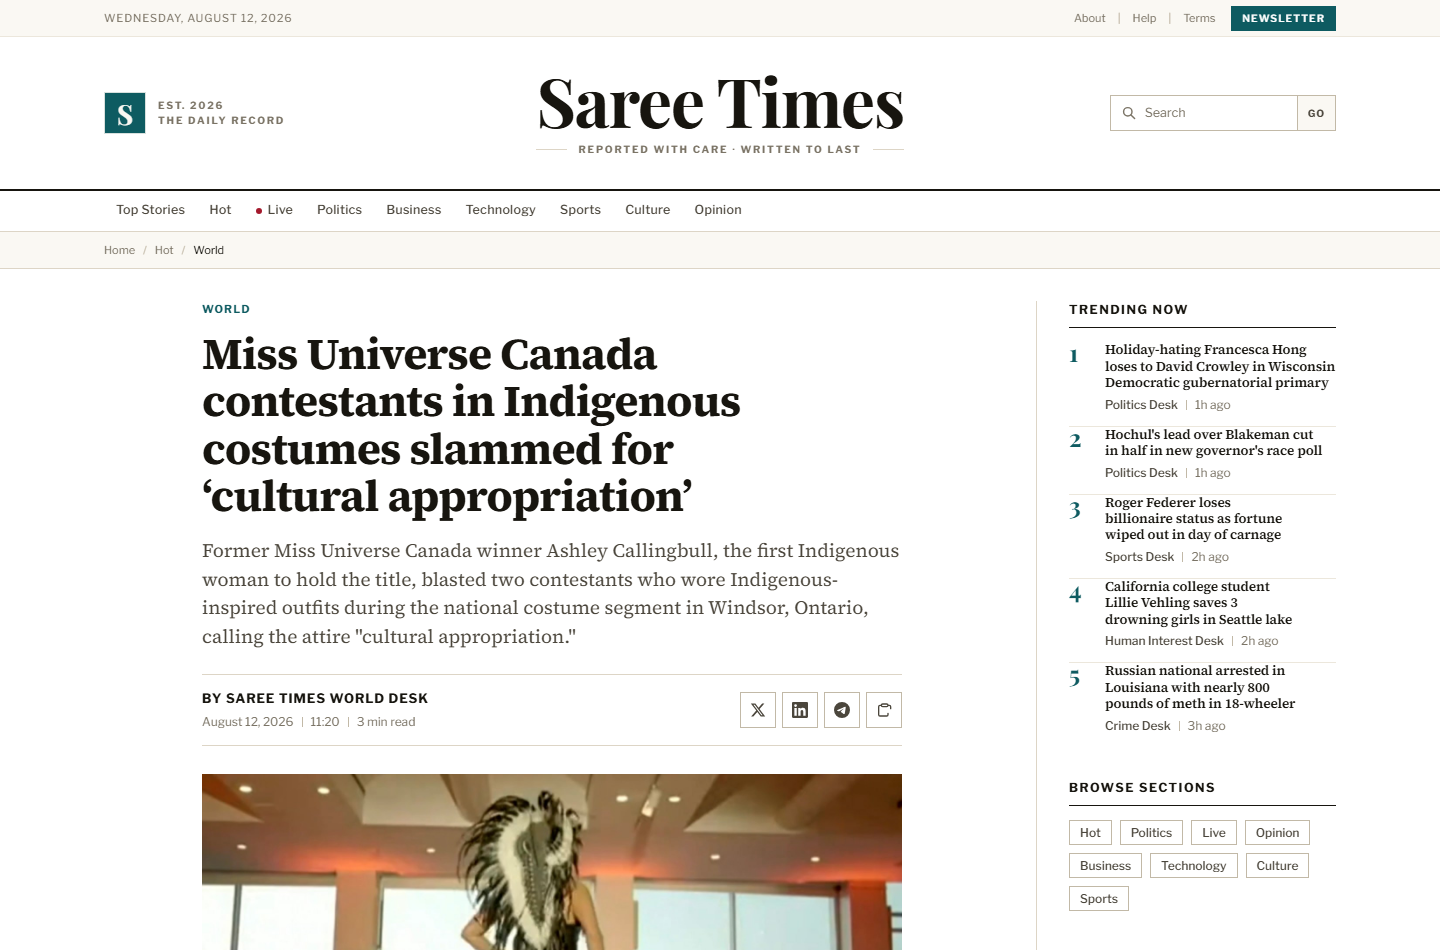
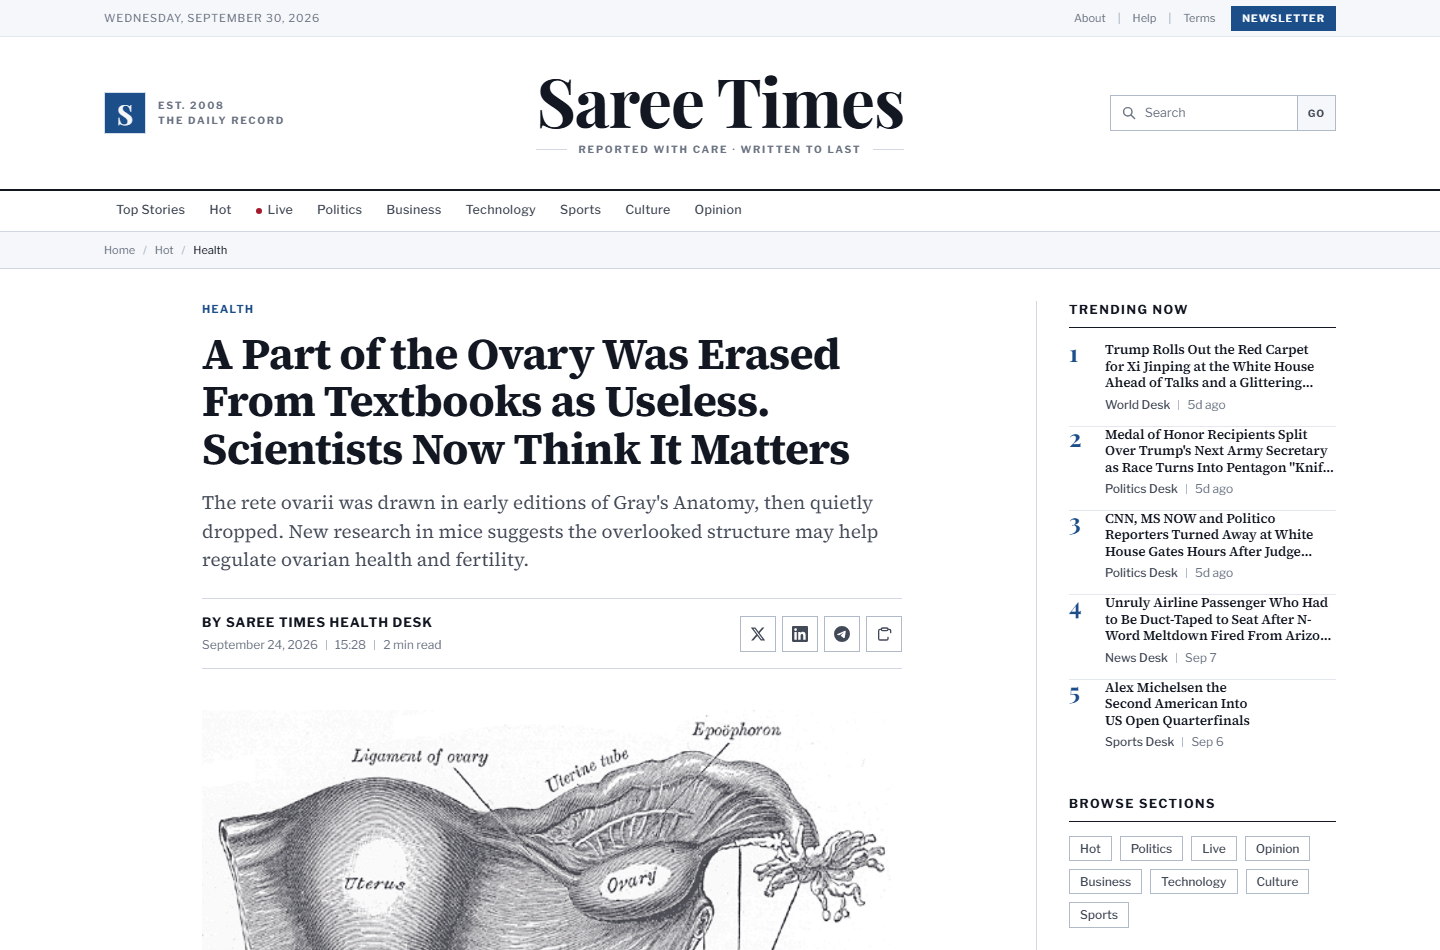
asd

diff --git a/src/app/globals.css b/src/app/globals.css
@@ -5,25 +5,25 @@
 :root {
   color-scheme: light;
 
-  --foreground-rgb: 23, 21, 15;
+  --foreground-rgb: 18, 23, 34;
 
   /* ============================================================
-     Saree Times — warm broadsheet palette.
-     Ink on cream paper, one deep-teal house accent, crimson kept
-     in reserve for live and breaking furniture only.
+     Saree Times — cool broadsheet palette.
+     Ink on blue-grey paper, one deep-cobalt house accent, crimson
+     kept in reserve for live and breaking furniture only.
      ============================================================ */
 
   --bg-base: #ffffff;
   --bg-primary: #ffffff;
-  --bg-secondary: #ebe6dc;
-  --bg-surface: #faf8f3;
-  --bg-surface-2: #f2ede3;
-  --bg-elevated: #fdfcf9;
+  --bg-secondary: #e5e9f0;
+  --bg-surface: #f5f7fa;
+  --bg-surface-2: #edf0f5;
+  --bg-elevated: #fbfcfd;
 
-  --border-subtle: #ece7dc;
-  --border-soft: #ddd5c6;
-  --border-strong: #c2b9a7;
-  --border-glow: #8a8271;
+  --border-subtle: #e3e7ee;
+  --border-soft: #d2d8e1;
+  --border-strong: #b1bac8;
+  --border-glow: #7b8596;
 
   /* Print furniture is square; nothing in this design is rounded. */
   --r-ticket-a: 0;
@@ -31,14 +31,14 @@
   --r-card-a: 0;
   --r-card-b: 0;
 
-  --text-primary: #17150f;
-  --text-secondary: #4b463c;
-  --text-muted: #7b7466;
+  --text-primary: #121722;
+  --text-secondary: #434a57;
+  --text-muted: #6d7584;
 
-  --accent: #0e5b61;
-  --accent-hover: #093f44;
-  --accent-subtle: #e9f2f2;
-  --accent-border: #b4ced0;
+  --accent: #1c4e8a;
+  --accent-hover: #133865;
+  --accent-subtle: #ebf1f9;
+  --accent-border: #b8cae3;
   --accent-glow: transparent;
 
   --brand-blue: var(--accent);
@@ -49,8 +49,8 @@
   --brand-green: #1f6b45;
   --live: #a4192c;
 
-  --rule: #17150f;
-  --ink: #17150f;
+  --rule: #121722;
+  --ink: #121722;
 
   /* Font stacks are wired to next/font variables set on <html>. */
   --font-sans: var(--font-ui), 'Helvetica Neue', Arial, Helvetica, sans-serif;
@@ -419,7 +419,7 @@ a:hover .headline {
 .article-content p {
   margin-bottom: 1.35rem;
   line-height: 1.68;
-  color: #23211b;
+  color: #1f2430;
   font-size: 1.1875rem;
   letter-spacing: -0.003em;
 }
@@ -462,7 +462,7 @@ a:hover .headline {
   margin: 0 0 1.35rem 1.4rem;
   font-size: 1.1875rem;
   line-height: 1.68;
-  color: #23211b;
+  color: #1f2430;
 }
 
 .article-content ul { list-style: disc; }
@@ -611,8 +611,8 @@ a:hover .headline {
 .scrollbar-hide { scrollbar-width: none; }
 
 ::selection {
-  background: #cfe6e6;
-  color: #17150f;
+  background: #d3e1f3;
+  color: #121722;
 }
 
 a:focus-visible,

diff --git a/src/components/Logo.tsx b/src/components/Logo.tsx
@@ -3,7 +3,7 @@ import { SITE_NAME } from '@/lib/brand'
 /**
  * The square monogram tile. Deliberately rebuilt in CSS rather than loaded as
  * an image so it matches `public/logo.svg` exactly while costing no request —
- * both are a Playfair Display bold "S" in cream on the house teal.
+ * both are a Playfair Display bold "S" in mist on the house cobalt.
  */
 export function BrandMark({
   size = 40,
@@ -20,7 +20,7 @@ export function BrandMark({
         width: size,
         height: size,
         fontSize: size * 0.66,
-        boxShadow: `inset 0 0 0 ${Math.max(1, Math.round(size * 0.028))}px rgba(250, 248, 243, 0.85)`,
+        boxShadow: `inset 0 0 0 ${Math.max(1, Math.round(size * 0.028))}px rgba(245, 247, 250, 0.85)`,
       }}
     >
       <span style={{ transform: `translateY(${size * 0.03}px)` }}>S</span>

diff --git a/tailwind.config.ts b/tailwind.config.ts
@@ -10,14 +10,14 @@ const config: Config = {
     extend: {
       colors: {
         saree: {
-          ink: '#17150f',
-          rule: '#17150f',
-          teal: '#0e5b61',
-          'teal-dark': '#093f44',
+          ink: '#121722',
+          rule: '#121722',
+          cobalt: '#1c4e8a',
+          'cobalt-dark': '#133865',
           crimson: '#a4192c',
           paper: '#ffffff',
-          cream: '#faf8f3',
-          hairline: '#ddd5c6',
+          mist: '#f5f7fa',
+          hairline: '#d2d8e1',
         },
       },
       fontFamily: {
